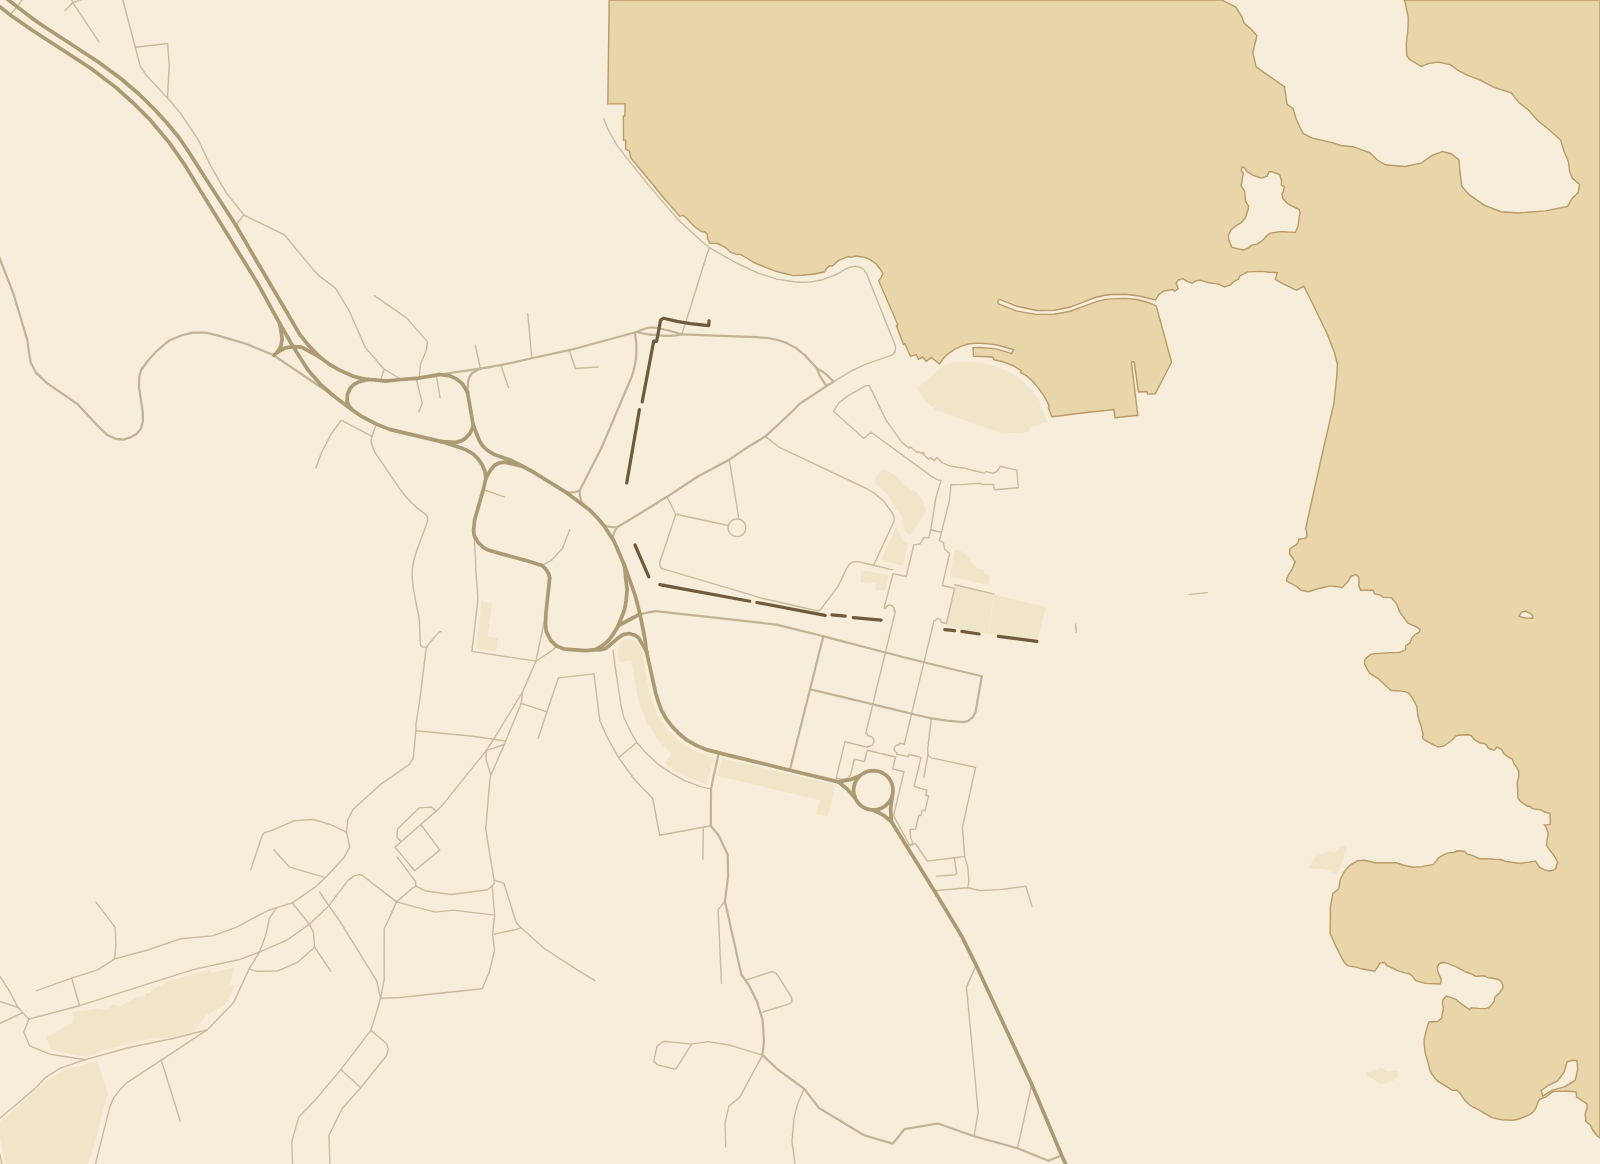
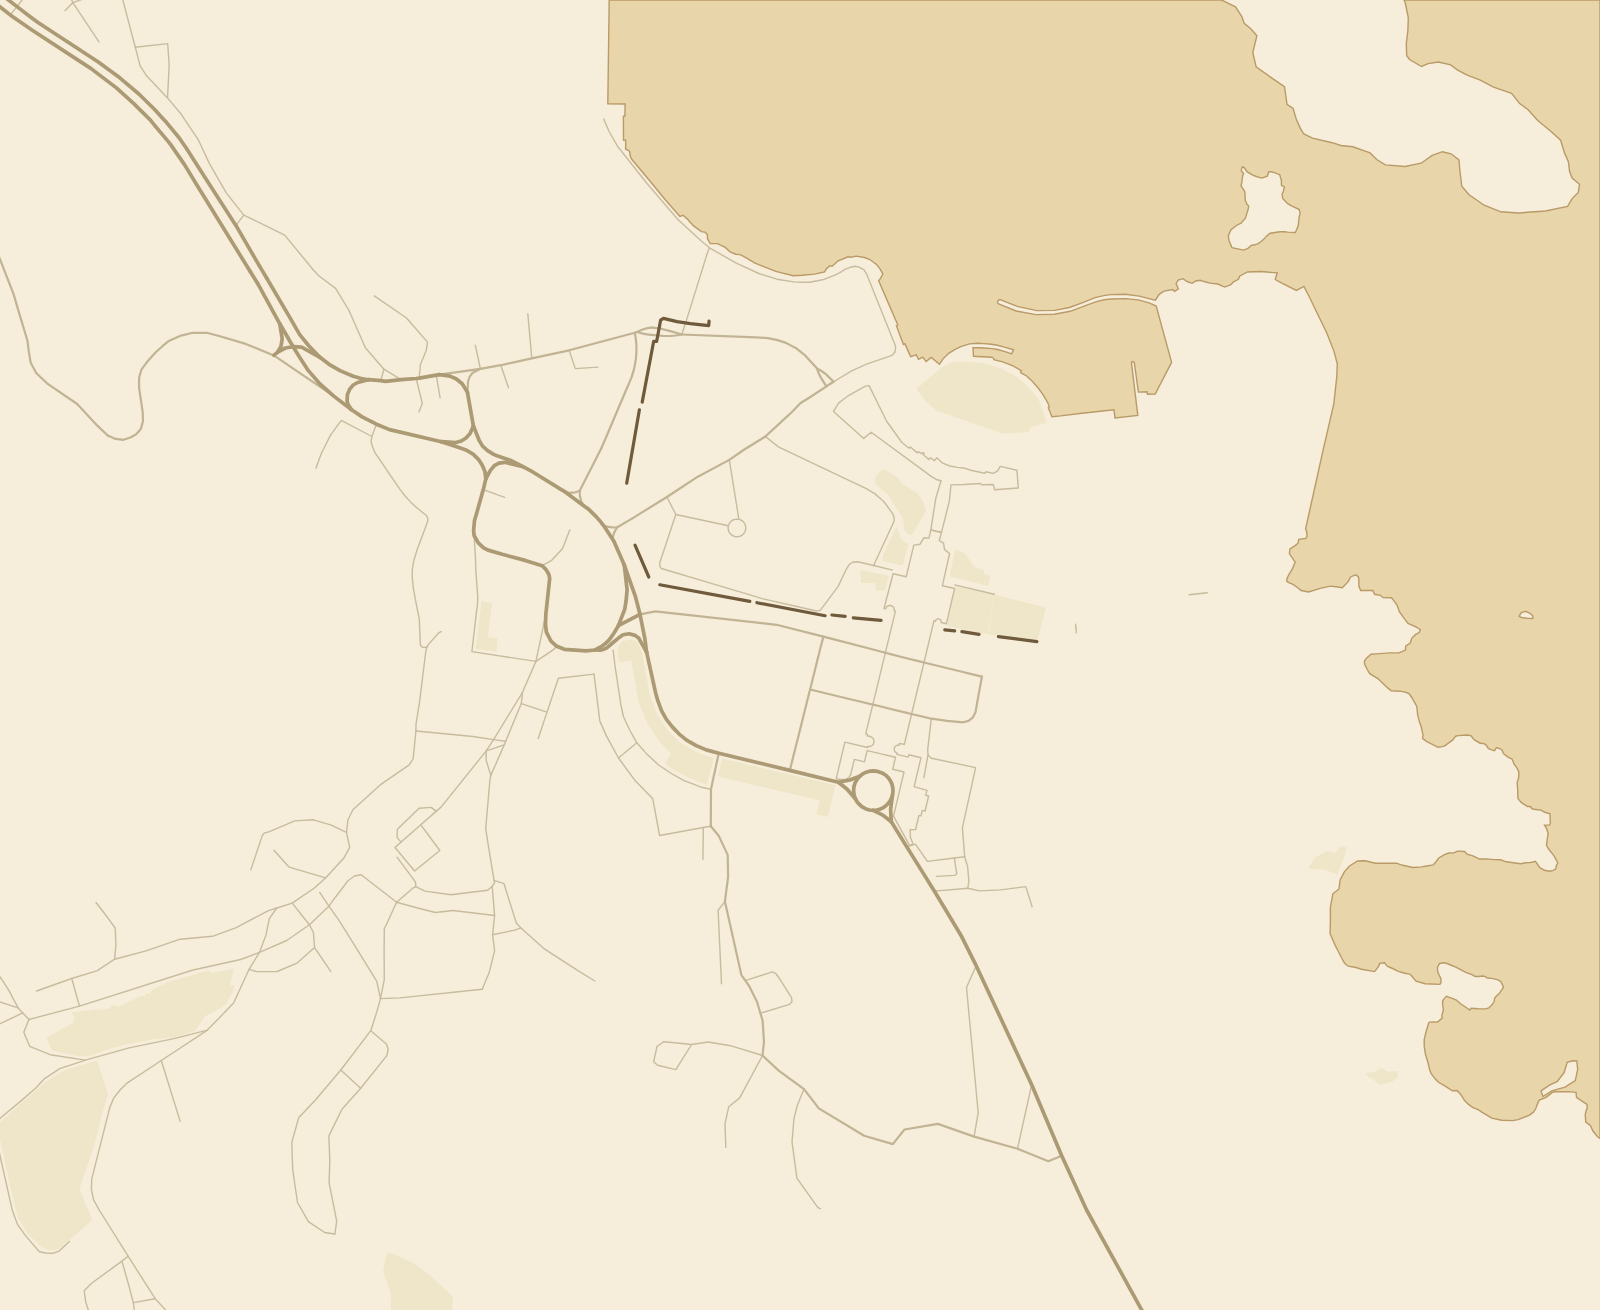
wip: mittakaavajanan tormaystarkistus karttapisteille, Masqatin ja Kuwaitin rajaukset

diff --git a/js/packs/maakartat.js b/js/packs/maakartat.js
@@ -2474,7 +2474,7 @@ export const KAUPUNKIKARTAT = {
     polku: 'assets/kartat/masqat-keskusta.png',
     lahde: '© OpenStreetMap-tekijät (ODbL)',
     rajat: {
-      pohjoinen: 23.6205, etela: 23.6085, lansi: 58.584, ita: 58.602,
+      pohjoinen: 23.6205, etela: 23.607, lansi: 58.584, ita: 58.602,
     },
     esittely: 'Masqat ei ole yksi kaupunki vaan jono pieniä lahtia '
       + 'vuorten välissä. Vanha Masqat on niistä itäisin: puolikuun '
@@ -2519,7 +2519,7 @@ export const KAUPUNKIKARTAT = {
     polku: 'assets/kartat/kuwait-keskusta.png',
     lahde: '© OpenStreetMap-tekijät (ODbL)',
     rajat: {
-      pohjoinen: 29.392, etela: 29.370, lansi: 47.962, ita: 48.010,
+      pohjoinen: 29.392, etela: 29.366, lansi: 47.962, ita: 48.010,
     },
     esittely: 'Kuwait City on rakennettu lahden kaarelle, ja koko '
       + 'kaupunki katsoo veteen päin. Vanha kaupunki oli 1950-luvulle '
